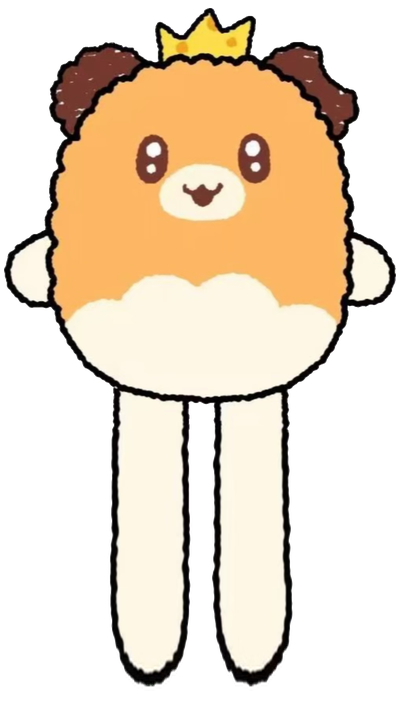
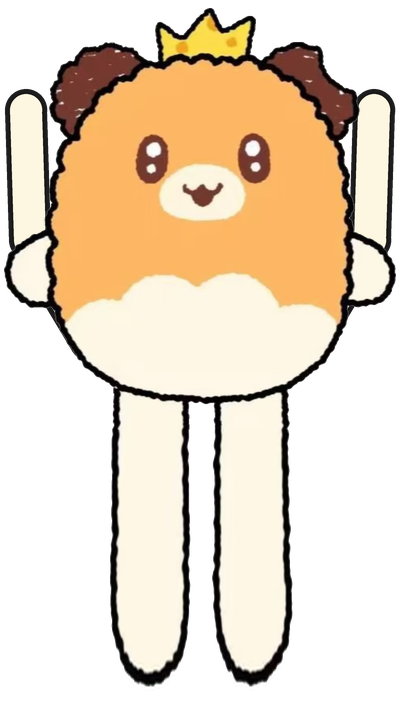
fix: keep bite mark on right, stretch arms, transparent kickflip board

diff --git a/main.js b/main.js
@@ -76,7 +76,7 @@ const coldLines = [
 ];
 
 const stretchLines = [
-  '姐姐看！手可以伸这么长——',
+  '姐姐看！手和脚都可以伸这么长——',
   '嘿——咻！够到酱料啦！',
   '腿也可以伸很长哦。',
   '这样就能和姐姐更近了。',

diff --git a/renderer.js b/renderer.js
@@ -65,8 +65,7 @@ function clamp(v, lo, hi) {
 }
 
 function applyDir() {
-  const flip = currentName === 'skate' ? -dir : dir;
-  flipper.style.setProperty('--dir', String(flip));
+  flipper.style.setProperty('--dir', '1');
 }
 
 function setDir(value) {

diff --git a/scripts/build_assets.py b/scripts/build_assets.py
@@ -152,7 +152,25 @@ def stretch(base):
     out.alpha_composite(base.crop((0, 0, W, cut)), (0, 0))
     lower = base.crop((0, cut, W, H)).resize((W, new_h - cut), Image.LANCZOS)
     out.alpha_composite(lower, (0, cut))
-    return out
+
+    ov = Image.new('RGBA', (W * SS, new_h * SS), (0, 0, 0, 0))
+    d = ImageDraw.Draw(ov)
+
+    def chain(points, color, width):
+        pts = [(s(x), s(y)) for x, y in points]
+        d.line(pts, fill=color, width=s(width), joint='curve')
+        for x, y in pts:
+            r = s(width) // 2
+            d.ellipse([x - r, y - r, x + r, y + r], fill=color)
+
+    left = [(90, 340), (30, 240), (26, 110)]
+    right = [(310, 340), (370, 240), (374, 110)]
+    for pts in (left, right):
+        chain(pts, INK, 42)
+    for pts in (left, right):
+        chain(pts, CREAM, 32)
+    ov = ov.resize((W, new_h), Image.LANCZOS)
+    return Image.alpha_composite(ov, out)
 
 
 def clean_skate_edges(img):
